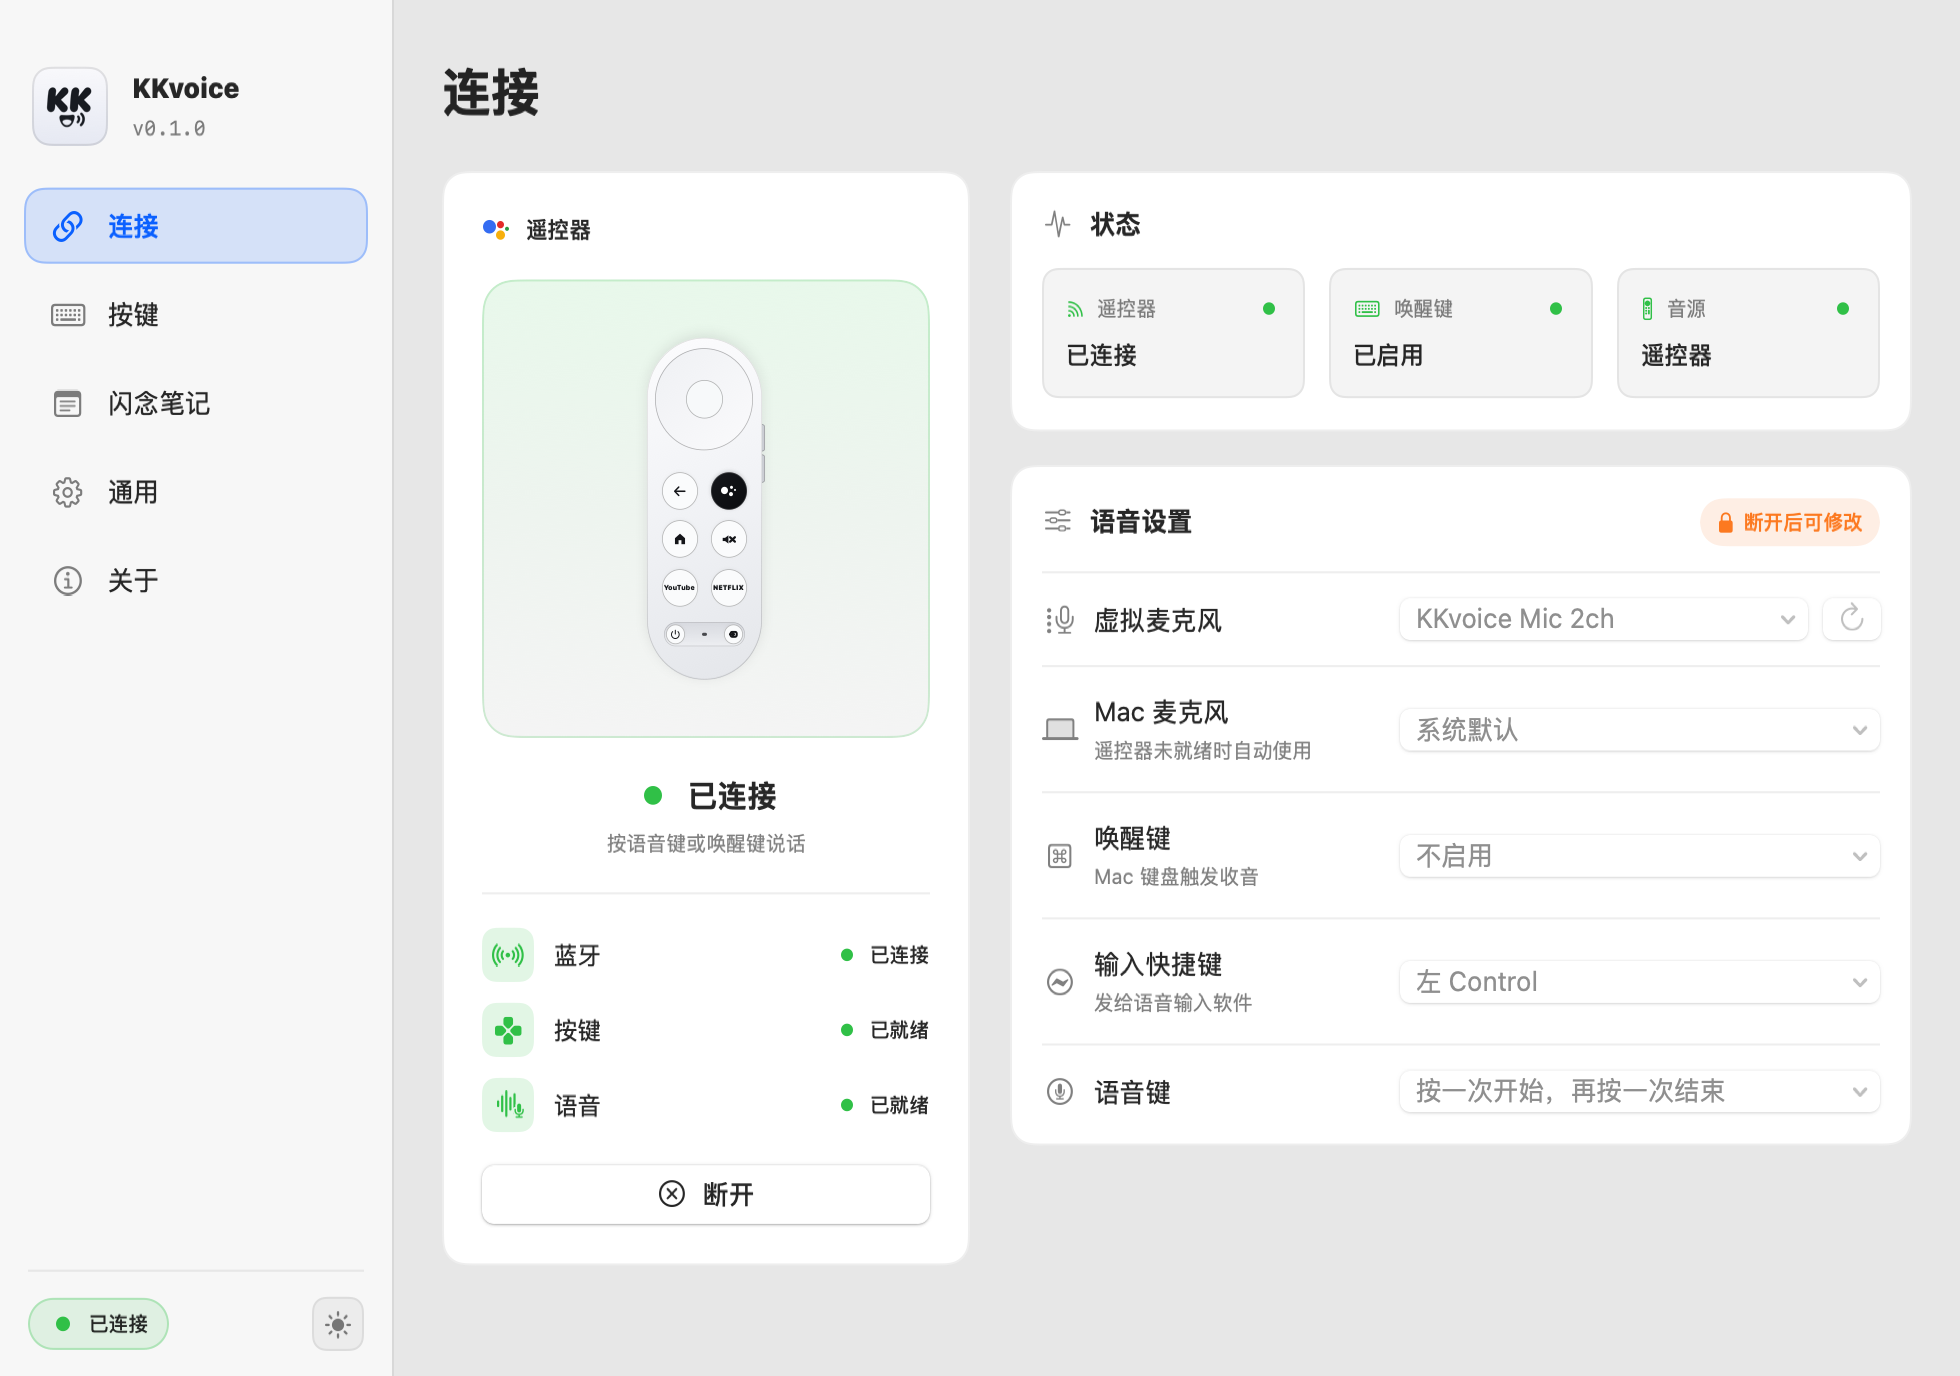
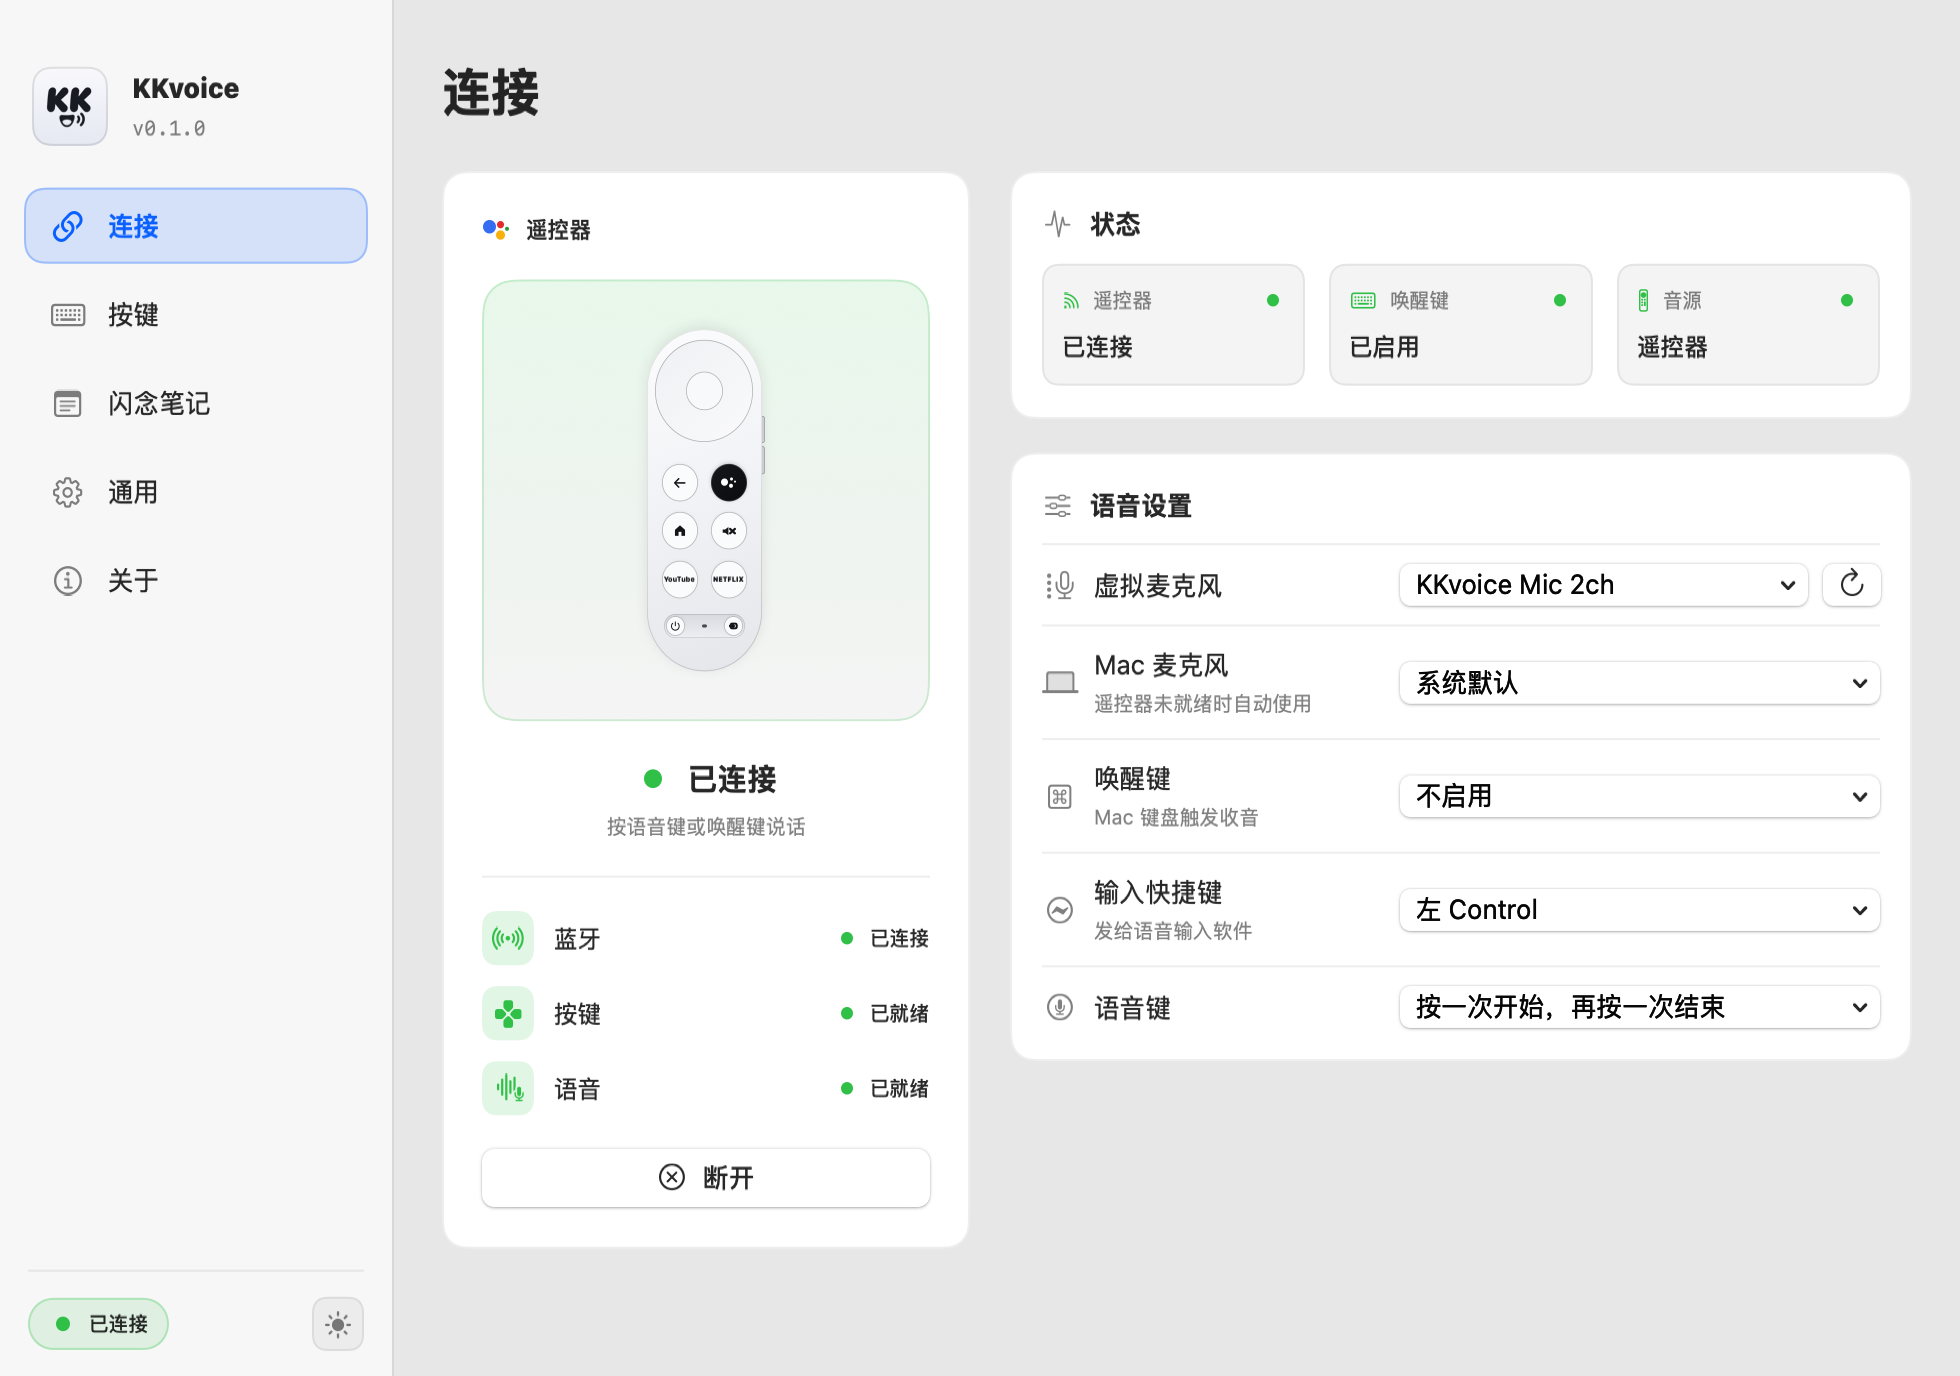
docs: update README, DEVELOPMENT.md, PLAN.md, and screenshots for pairing guide, zero-power standby, and AppUpdater

diff --git a/README.md b/README.md
@@ -7,9 +7,11 @@
 ## 功能亮点
 
 - **语音遥控器当麦克风**：按遥控器语音键（或 Mac 键盘唤醒键）即可收音，将音频实时转发至虚拟麦克风 `KKvoice Mic`，直接用于 Vokie 等语音输入软件。
-- **自动切换音源**：**待机时不采集任何麦克风**；遥控器连接就绪时使用遥控器麦克风，断开或休眠时按唤醒键收音会自动切换为所选的 Mac 物理麦克风（仅在收音期间按需开启，收音结束立即释放）。
+- **自动切换音源（待机零采集）**：**待机时不采集任何麦克风**；遥控器连接就绪时使用遥控器麦克风，断开或休眠时按唤醒键收音会自动切换为所选的 Mac 物理麦克风（仅在收音期间按需开启，收音结束立即释放）。
+- **智能蓝牙搜索与零功耗离线待机**：启动与遥控器按键唤醒时自动搜索秒连；带 MacBook 外出（遥控器不在身边）时自动停止蓝牙扫描进入**零功耗待机**，无缝使用 Mac 麦克风，回家按遥控器任意键通过系统 HID 事件瞬间自动重连。
 - **按键映射**：直观的遥控器键位视图，支持将方向键、确认、返回、Home、YouTube、Netflix、静音、音量、电源、信源等按键映射为系统快捷键、打开/切换应用、输入文字或系统控制。
 - **闪念笔记联动**：一键触发闪念笔记（SnapNote）新建笔记，并自动添加自定义标签（1–20 字，默认「闪念」）。
+- **应用内一键更新**：支持启动/定时自动检查 GitHub 新版本、弹窗提醒、一键下载校验签名并替换重启，可在「通用」页开启或关闭「自动检查更新」与「自动安装更新」。
 
 ## 界面截图
 
@@ -40,10 +42,10 @@
 
 ## 使用步骤
 
-1. 在 macOS「系统设置 → 蓝牙」中配对 Google TV / Chromecast 语音遥控器。
-2. 打开 KKvoice，按提示一键安装虚拟麦克风 `KKvoice Mic`，然后将语音输入软件（如 Vokie）的麦克风输入设为 `KKvoice Mic`。
-3. 在「连接」页设置语音输入软件的触发快捷键与备用 Mac 麦克风。
-4. 按下遥控器语音键（或键盘唤醒键）开始说话，或在「按键」页自定义各个遥控器按键功能。
+1. **首次蓝牙配对**：首次连接新 Mac 时，同时长按遥控器**「返回 `←` + 主页 `🏠`」3–5 秒**至指示灯闪烁，在 macOS「系统设置 → 蓝牙」中连接 `Chromecast Remote`（连接页亦内置配对提示与「蓝牙设置」快捷入口）。
+2. **设置虚拟麦克风**：打开 KKvoice，按提示一键安装虚拟麦克风 `KKvoice Mic`，然后将语音输入软件（如 Vokie）的麦克风输入设为 `KKvoice Mic`。
+3. **配置快捷键与备用麦**：在「连接」页设置语音输入软件的触发快捷键与备用 Mac 麦克风（连接或搜索中修改即刻生效）。
+4. **开始语音输入或自定义按键**：按下遥控器语音键（或键盘唤醒键）开始说话，或在「按键」页自定义各个遥控器按键功能。
 
 ## 从源码构建
 
@@ -60,7 +62,7 @@ swift test
 open dist/KKvoice.app
 ```
 
-- `swift test`：运行 `Tests/KKvoiceTests` 下的 27 个单元测试。
+- `swift test`：运行 `Tests/KKvoiceTests` 下的 33 个单元测试。
 - `./*Tests/run.sh`：运行 5 组独立模块回归测试。
 - `./Scripts/build-app.sh`：自动构建 `KKvoiceMic.driver`、辅助进程 `KKvoiceRemoteHelper.app` 与主程序 `KKvoice.app`，并检测本机 Apple 证书完成由内向外的 Hardened Runtime 签名（未检测到证书时回退至 `-` 本地签名）。
 
@@ -77,9 +79,10 @@ open dist/KKvoice.app
 
 ## English
 
-**KKvoice** is a native macOS companion app for Google TV / Chromecast voice remotes. It turns the remote into a wireless microphone (`KKvoice Mic`) for voice dictation apps (such as Vokie), automatically falls back to a selected physical Mac microphone during active sessions when the remote is disconnected (zero mic capture while idle), maps remote buttons to macOS shortcuts/apps/text, and integrates with SnapNote (with customizable tags, defaulting to `"闪念"`).
+**KKvoice** is a native macOS companion app for Google TV / Chromecast voice remotes. It turns the remote into a wireless microphone (`KKvoice Mic`) for voice dictation apps (such as Vokie), automatically falls back to a selected physical Mac microphone during active sessions when the remote is disconnected (zero mic capture while idle), enters zero-power passive standby when you take your MacBook on the go and reconnects instantly on any remote keypress via macOS HID events, maps remote buttons to macOS shortcuts/apps/text, integrates with SnapNote (with customizable tags, defaulting to `"闪念"`), and includes a built-in GitHub Releases auto-updater.
 
 - **Requirements**: macOS 13.0 (Ventura) or later (Apple Silicon & Intel).
+- **First-Time Remote Pairing**: Hold **Back `←` + Home `🏠`** on the remote for 3–5 seconds until the LED pulses, then connect **Chromecast Remote** in System Settings → Bluetooth.
 - **Download**: Grab the latest archive from [Releases](https://github.com/intelKANG/KKvoice/releases/latest) and move `KKvoice.app` to `/Applications`.
 - **First Launch (Signed with Apple Developer certificate + Hardened Runtime, not notarized)**: Right-click `KKvoice.app` → **Open** (or allow in System Settings → Privacy & Security), or run:
   ```sh

diff --git a/DEVELOPMENT.md b/DEVELOPMENT.md
@@ -2,17 +2,34 @@
 
 ## Architecture & repository boundaries
 
-- `Sources/KKvoice`: SwiftUI settings window (`macOS 13.0+`), menu-bar controller, audio source router (`AudioSourceRouter`), in-app driver installer (`DriverInstaller`), keyboard settings, button mappings, Vokie capture monitor, and orchestration.
-- `Native/Helper`: Objective-C background process for Bluetooth discovery, Chromecast ATVV, remote buttons, keyboard event listening, and JSON-line IPC (`Native/Helper/SOURCE.md` records helper provenance).
+- `Sources/KKvoice`: SwiftUI settings window (`macOS 13.0+`), menu-bar controller, audio source router (`AudioSourceRouter`), in-app driver installer (`DriverInstaller`), native GitHub Releases updater (`AppUpdater`), keyboard settings, button mappings, Vokie capture monitor, and orchestration.
+- `Native/Helper`: Objective-C background process for bounded Bluetooth discovery & zero-power passive standby (`remote_standby`), HID wake-on-keypress reconnect, Chromecast ATVV, remote buttons, keyboard event listening, and JSON-line IPC (`Native/Helper/SOURCE.md` records helper provenance).
 - `Session`: deterministic capture state machine, shortcut relay, and physical-key coordination.
 - `Audio`: CoreAudio output to the explicitly selected virtual device, Mac microphone fallback relay, PCM conversion, buffering, and session isolation.
 - `SnapNote`: local MCP client, Keychain token store, action coordinator, and helper cancellation adapter.
 - `Driver`: BlackHole-based `KKvoice Mic` HAL driver build script (`Driver/build-blackhole-driver.sh`), legacy local-dev patch script (`Driver/build-driver.sh`), and privileged installer.
-- `*Tests` and `Tests/KKvoiceTests`: hardware-free regression tests (27 XCTest unit tests in `Tests/KKvoiceTests` plus 5 standalone `*Tests/run.sh` suites).
+- `*Tests` and `Tests/KKvoiceTests`: hardware-free regression tests (33 XCTest unit tests in `Tests/KKvoiceTests` plus 5 standalone `*Tests/run.sh` suites).
 
 Keep the remote protocol in the helper process and keep state transitions in the hardware-independent `Session` module. Do not move CoreAudio callbacks, BLE callbacks, or keychain access onto real-time audio or event-tap paths. Preserve third-party notices and do not commit credentials, personal notes, build products, local app bundles, or signing material.
 
 The app sends JSON-line commands to `KKvoiceRemoteHelper`. Keep command ordering serialized. The helper does not attach remote session identifiers to all BLE events, so the coordinator must reject stale events and release capture idempotently.
+
+## Bluetooth discovery & zero-power standby
+
+`KKvoiceRemoteHelper` uses bounded active BLE discovery windows combined with kernel-driven `IOHIDManager` passive wakeup:
+
+- On helper startup (`10s`), disconnect (`6s`), or manual UI scan (`{"type": "scan_remote", "duration": 30}`), the helper checks `retrieveConnectedPeripheralsWithServices` every `2.0s` and runs `scanForPeripheralsWithServices` (`CBCentralManagerScanOptionAllowDuplicatesKey: @NO`).
+- If the window expires without finding the remote, the helper stops `discoveryTimer` and calls `[central stopScan]`, emitting `{"type": "remote_standby"}` so the Mac consumes **zero background BLE scan power** when away from the remote.
+- As soon as the remote wakes up nearby (matching `HIDDeviceMatchedCallback` / `hid_connected` or delivering any HID button report while `peripheral == nil`), the helper immediately opens a `10.0s` discovery window on the main queue and reconnects the ATVV voice service.
+- `AppModel` persists `hasEverConnectedRemote` in `UserDefaults`: new Macs (`hasEverConnectedRemote == false`) display the first-time Bluetooth pairing bar (`同时长按「← + 🏠」3 秒`), while returning users away from their remote (`hasEverConnectedRemote == true`) see a calm offline standby state (`遥控器离线 · 当前使用 Mac 麦克风 · 按遥控器任意键自动重连`).
+
+## In-app updater (`AppUpdater`)
+
+`Sources/KKvoice/AppUpdater.swift` implements a zero-dependency updater backed by `https://api.github.com/repos/intelKANG/KKvoice/releases/latest`:
+
+- Compares release tags against `AppModel.appVersionString` via `SemanticVersion`.
+- Supports automatic check on launch (delayed 3s, never interrupting active voice recording) and every 6 hours (`autoCheckUpdates`, default `true`), plus optional automatic download and installation (`autoInstallUpdates`, default `false`).
+- Verifies downloaded archives before replacement: checks `CFBundleIdentifier == "local.kkvoice.app"`, runs `/usr/bin/codesign --verify --deep --strict`, validates matching Apple `TeamIdentifier` when the running bundle is team-signed, strips `com.apple.quarantine`, and swaps the app bundle via a detached relaunch script.
 
 ## Build workflow
 

diff --git a/PLAN.md b/PLAN.md
@@ -3,9 +3,10 @@
 > [!NOTE]
 > **文档说明（v0.1.0 实际演进状态）**：本文档记录了 KKvoice 从早期插件迁移为独立 macOS 应用时的初始规划背景。当前发布的 **`v0.1.0`** 已在此基础上完成以下核心演进：
 > 1. **全新 SwiftUI 五页界面（macOS 13.0+）**：替代早期 AppKit 设置窗口，提供「连接、按键、闪念笔记、通用、关于」五页工作台、遥控器插画式按键映射及浅色/深色/跟随系统外观切换。
-> 2. **音源自动回退（待机零采集）**：早期规划仅使用遥控器麦克风；`v0.1.0` 新增 `AudioSourceRouter`，在遥控器未连接或休眠时按唤醒键收音会自动按需采集所选 Mac 物理麦克风写入 `KKvoice Mic`（待机仍绝不采集任何麦克风，收音结束立即释放并清空缓冲）。
+> 2. **音源自动回退与零功耗离线待机**：早期规划仅使用遥控器麦克风；`v0.1.0` 新增 `AudioSourceRouter` 与有界蓝牙搜索窗口（`remote_standby`）——遥控器未连接时按唤醒键收音会自动按需采集所选 Mac 物理麦克风写入 `KKvoice Mic`（待机仍绝不采集任何麦克风），带 MacBook 外出时自动停止蓝牙扫描进入零功耗被动待机，回家按遥控器任意键通过系统 HID 事件瞬间重连。
 > 3. **内置 BlackHole 源码编译驱动与一键安装**：早期规划提到的驱动源码与授权问题已在 `v0.1.0` 彻底解决——通过 `Driver/build-blackhole-driver.sh` 直接从上游 BlackHole `v0.6.1`（GPLv3）源码编译 `KKvoiceMic.driver`（UID `KKvoiceMi2ch_UID`）并内置于应用包，支持启动自动检测与一键授权安装，且全套组件均使用 Apple 开发者证书 + Hardened Runtime 签名。
 > 4. **闪念笔记自定义标签与无感钥匙串检测**：标签从固定「闪念」升级为支持自定义（1–20 字，默认「闪念」），辅助进程已完整实现 `cancel_snapnote_action` 取消确认协议，且启动时仅检查钥匙串项是否存在而不读取密文。
+> 5. **应用内自动更新（`AppUpdater`）**：支持基于 GitHub Releases 的启动/定时新版本检测、签名与 Team ID 安全校验、自动去隔离属性及一键替换重启。
 
 ## 目标
 
